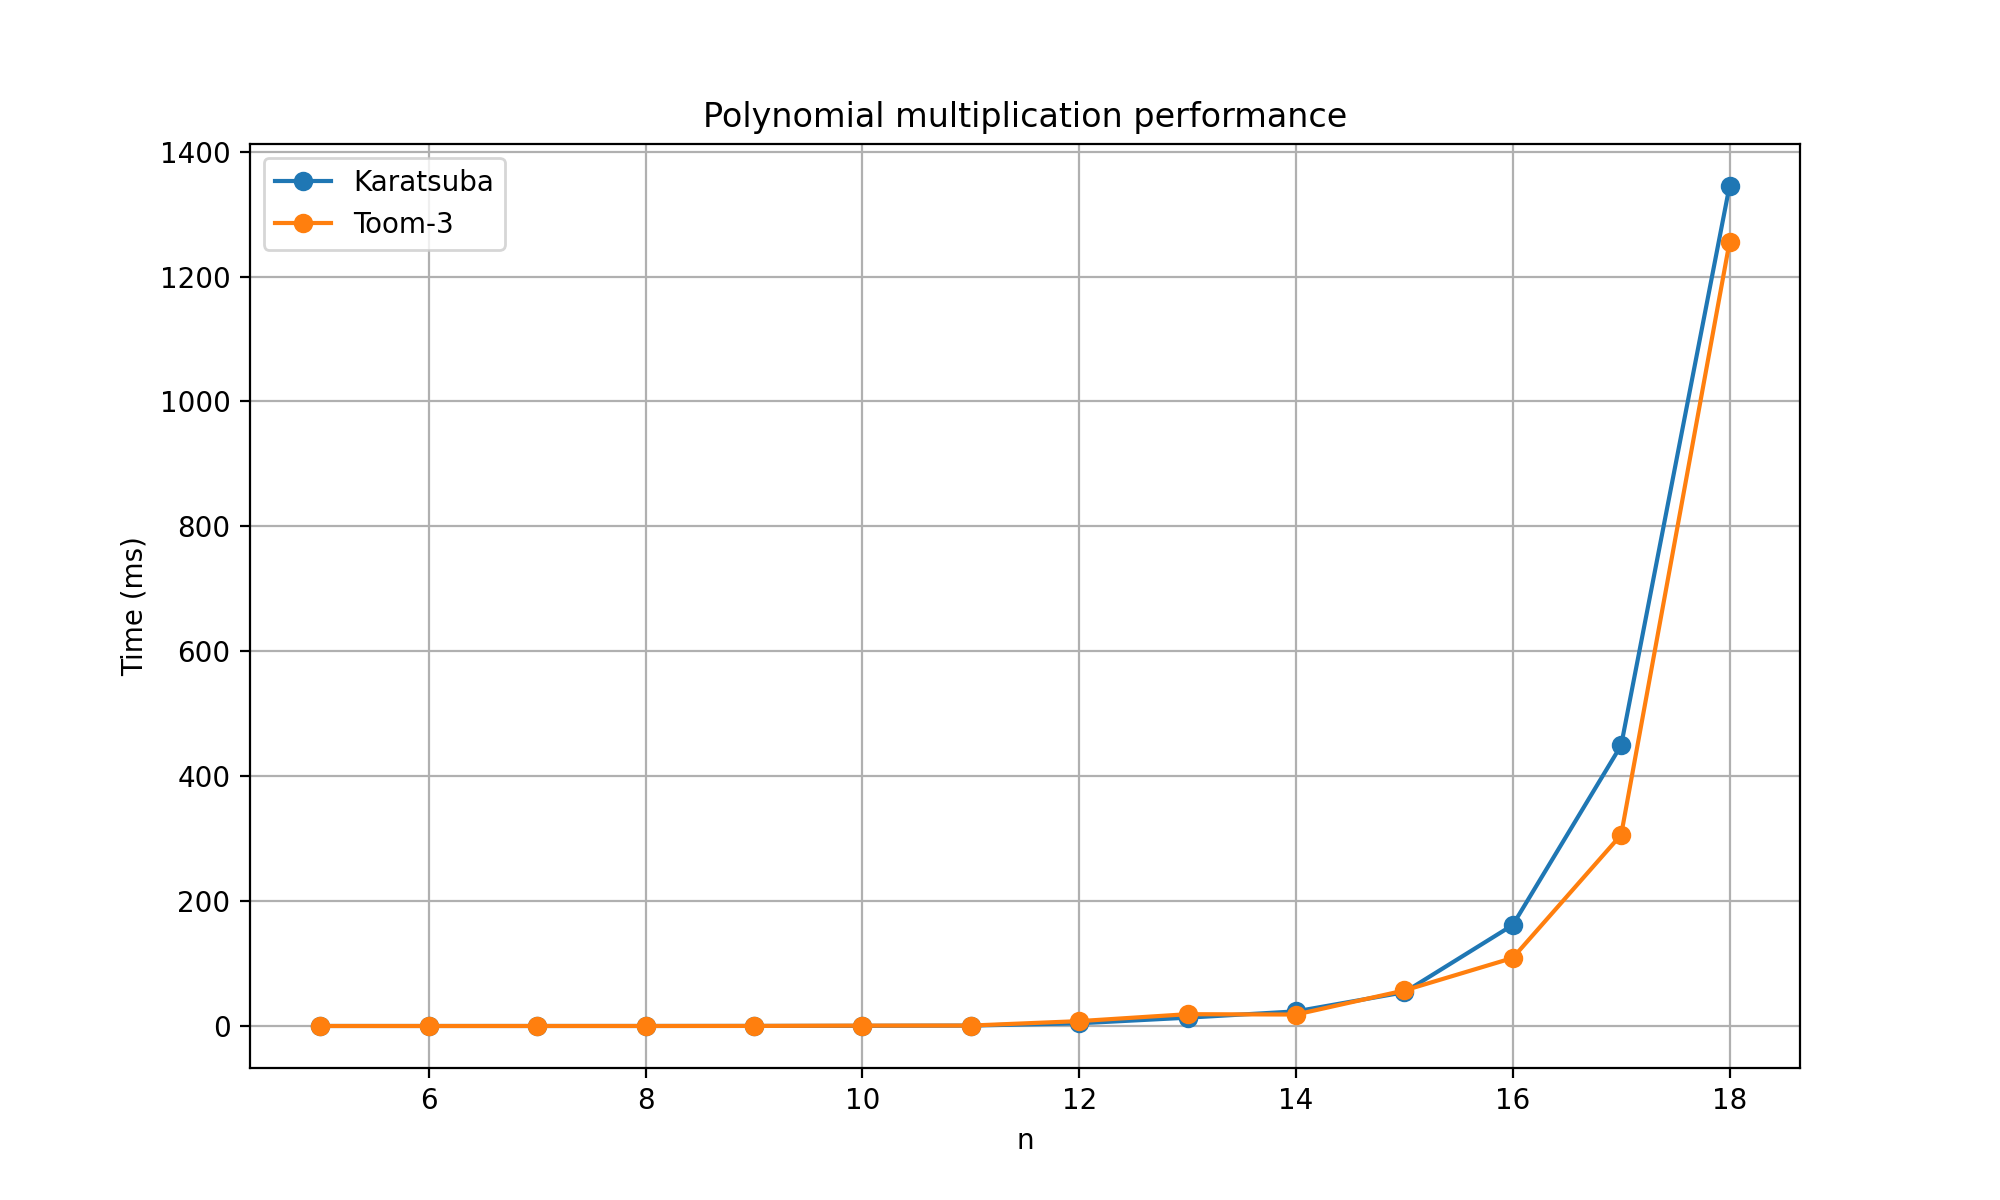
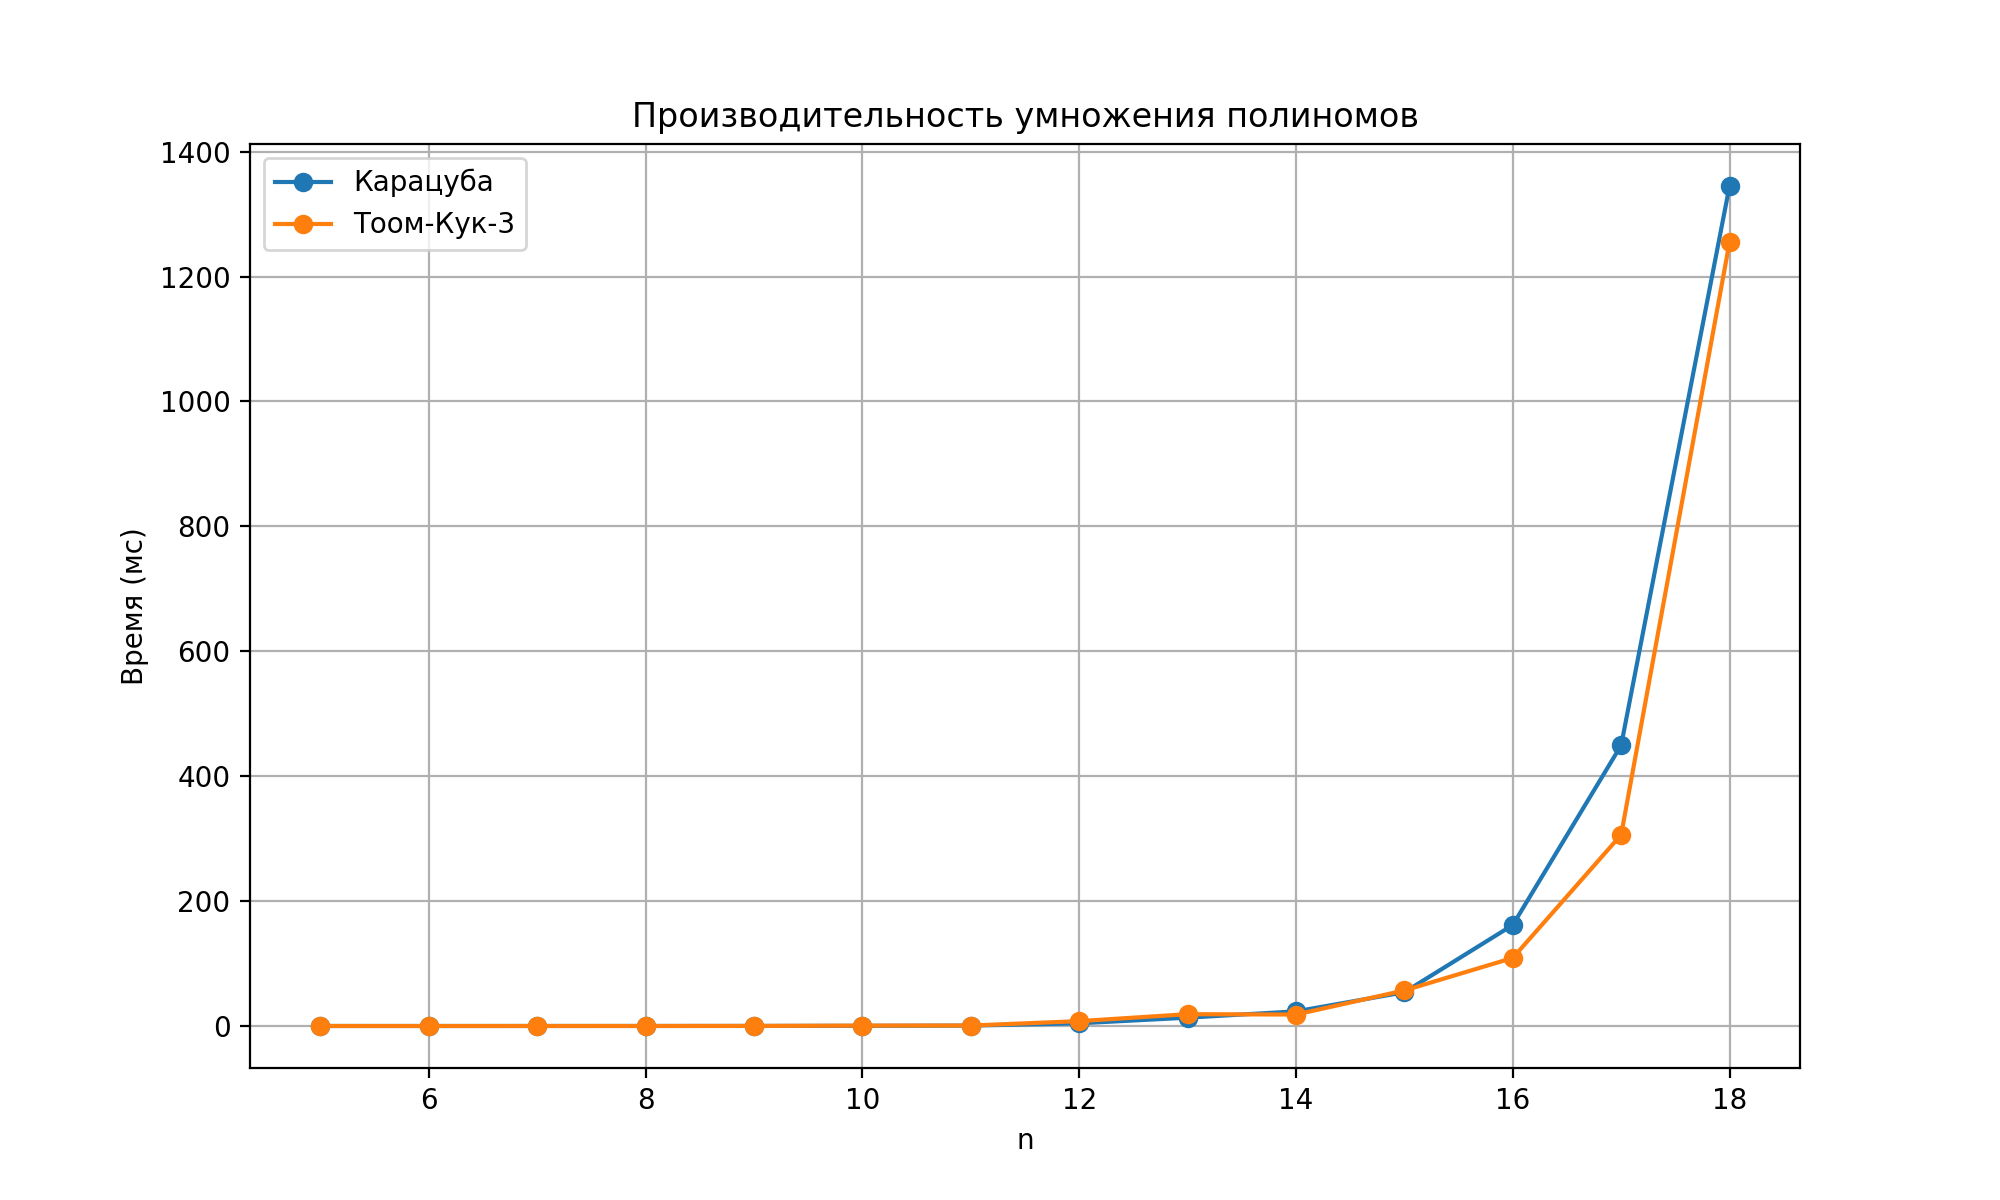
add theoretical complexity plots

Changed region(s): [[0.31, 0.0925, 0.713, 0.1233], [0.186, 0.1233, 0.279, 0.2158], [0.062, 0.4317, 0.093, 0.555]]

diff --git a/lab01-polynomial-multiplication/plot_results.py b/lab01-polynomial-multiplication/plot_results.py
@@ -1,4 +1,5 @@
 import csv
+import math
 import matplotlib.pyplot as plt
 
 n_values=[]
@@ -17,14 +18,36 @@ with open("results.csv", "r", newline="") as file:
 
 plt.figure(figsize=(10, 6))
 
-plt.plot(n_values, karatsuba_ms, marker="o", label="Karatsuba")
-plt.plot(n_values, toom3_ms, marker="o", label="Toom-3")
+plt.plot(n_values, karatsuba_ms, marker="o", label="Карацуба")
+plt.plot(n_values, toom3_ms, marker="o", label="Тоом-Кук-3")
 
 plt.xlabel("n")
-plt.ylabel("Time (ms)")
-plt.title("Polynomial multiplication performance")
+plt.ylabel("Время (мс)")
+plt.title("Производительность умножения полиномов")
 plt.legend()
 plt.grid(True)
 
 plt.savefig("results_plot.png", dpi=200)
+
+ordinary_theory=[n**2 for n in n_values]
+karatsuba_theory=[n**math.log(3, 2) for n in n_values]
+toom3_theory=[n**math.log(5, 3) for n in n_values]
+
+ordinary_theory=[x/ordinary_theory[0] for x in ordinary_theory]
+karatsuba_theory=[x/karatsuba_theory[0] for x in karatsuba_theory]
+toom3_theory=[x/toom3_theory[0] for x in toom3_theory]
+
+plt.figure(figsize=(10, 6))
+
+plt.plot(n_values, ordinary_theory, label="Наивный O(n^2)")
+plt.plot(n_values, karatsuba_theory, label="Карацуба O(n^log2_3)")
+plt.plot(n_values, toom3_theory, label="Тоом-Кук3 O(n^log3_5)")
+
+plt.xlabel("n")
+plt.ylabel("Нормированный рост")
+plt.title("Теоретическая сложность")
+plt.legend()
+plt.grid(True)
+
+plt.savefig("complexity_plot.png", dpi=200)
 plt.show()
